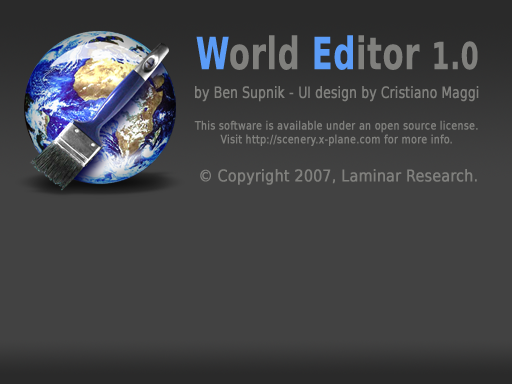
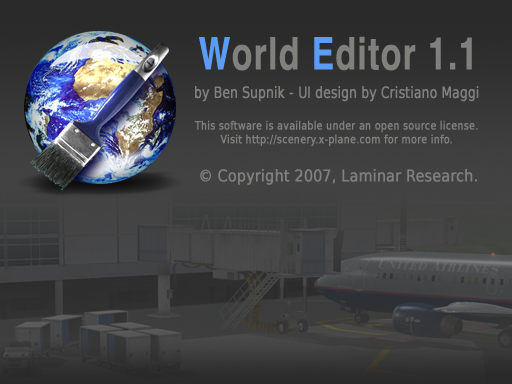
More WED bug fixes: * Split panes can't go off screen * About box updated. * Array bounds checking * Group command won't change tool

diff --git a/src/GUI/GUI_Splitter.cpp b/src/GUI/GUI_Splitter.cpp
@@ -130,15 +130,25 @@ void		GUI_Splitter::MouseDrag(int x, int y, int button)
 		GetNthChild(0)->GetBounds(b1);
 		GetNthChild(1)->GetBounds(b2);
 
+		int ss = GetSplitSize();
+
 		if (mDirection == gui_Split_Horizontal)
 		{
+			int smin = b[0];
+			int smax = b[2] - ss;			
 			b1[2] = x - mSlop;
-			b2[0] = x - mSlop + GetSplitSize();
+			if(b1[2] < smin)	b1[2] = smin;
+			if(b1[2] > smax)	b1[2] = smax;
+			b2[0] = b1[2] + ss;
 			b1[1] = b2[1] = b[1];
 			b1[3] = b2[3] = b[3];
 		} else {
+			int smin = b[1];
+			int smax = b[3] - ss;
 			b1[3] = y - mSlop;
-			b2[1] = y - mSlop + GetSplitSize();
+			if(b1[3] < smin) b1[3] = smin;
+			if(b1[3] > smax) b1[3] = smax;
+			b2[1] = b1[3] + ss;
 			b1[0] = b2[0] = b[0];
 			b1[2] = b2[2] = b[2];
 		}
@@ -182,22 +192,27 @@ void		GUI_Splitter::AlignContents()
 		GetNthChild(0)->GetBounds(b1);
 		GetNthChild(1)->GetBounds(b2);
 
+		int ss = GetSplitSize();
 		int split = mDirection == gui_Split_Horizontal ?
-			(b1[2] + b2[0] + GetSplitSize()) / 2 :
-			(b1[3] + b2[1] + GetSplitSize()) / 2;
+			(b1[2] + b2[0] + ss) / 2 :
+			(b1[3] + b2[1] + ss) / 2;
 
 		if (mDirection == gui_Split_Horizontal)
 		{
+			if(split < b[0]) split = b[0];
+			if(split > b[2]-ss) split = b[2]-ss;
 			b1[0] = b[0];
 			b1[2] = split;
-			b2[0] = split + GetSplitSize();
+			b2[0] = split + ss;
 			b2[2] = b[2];
 			b1[1] = b2[1] = b[1];
 			b1[3] = b2[3] = b[3];
 		} else {
+			if(split < b[1]) split = b[1];
+			if(split > b[3]-ss) split=b[3]-ss;
 			b1[1] = b[1];
 			b1[3] = split;
-			b2[1] = split + GetSplitSize();
+			b2[1] = split + ss;
 			b2[3] = b[3];
 			b1[0] = b2[0] = b[0];
 			b1[2] = b2[2] = b[2];
@@ -217,9 +232,13 @@ void		GUI_Splitter::AlignContentsAt(int split)
 		GetBounds(b);
 		GetNthChild(0)->GetBounds(b1);
 		GetNthChild(1)->GetBounds(b2);
-
+		int ss = GetSplitSize();
+		
 		if (mDirection == gui_Split_Horizontal)
 		{
+			if(split < b[0]) split = b[0];
+			if(split > b[2]-ss) split = b[2]-ss;
+		
 			b1[0] = b[0];
 			b1[2] = split;
 			b2[0] = split + GetSplitSize();
@@ -227,6 +246,9 @@ void		GUI_Splitter::AlignContentsAt(int split)
 			b1[1] = b2[1] = b[1];
 			b1[3] = b2[3] = b[3];
 		} else {
+			if(split < b[1]) split = b[1];
+			if(split > b[3]-ss) split=b[3]-ss;
+		
 			b1[1] = b[1];
 			b1[3] = split;
 			b2[1] = split + GetSplitSize();
@@ -267,4 +289,52 @@ int		GUI_Splitter::GetSplitSize(void)
 	} else {
 		return GUI_GetImageResourceWidth("splitter_v.png") / 2;
 	}
+}
+
+void		GUI_Splitter::SetBounds(int x1, int y1, int x2, int y2)
+{
+	int b[4] = { x1, y1, x2, y2 };
+	this->SetBounds(b);
+}
+
+void		GUI_Splitter::SetBounds(int inBounds[4])
+{
+	GUI_Pane::SetBounds(inBounds);
+
+	if (CountChildren() > 1)
+	{
+		int b[4], b1[4], b2[4];
+		GetBounds(b);
+		GetNthChild(0)->GetBounds(b1);
+		GetNthChild(1)->GetBounds(b2);
+		int ss = GetSplitSize();
+		int split = mDirection == gui_Split_Horizontal ? b1[2] : b1[3];
+
+		
+		if (mDirection == gui_Split_Horizontal)
+		{
+			if(split < b[0]) split = b[0];
+			if(split > b[2]-ss) split = b[2]-ss;
+		
+			b1[0] = b[0];
+			b1[2] = split;
+			b2[0] = split + GetSplitSize();
+			b2[2] = b[2];
+			b1[1] = b2[1] = b[1];
+			b1[3] = b2[3] = b[3];
+		} else {
+			if(split < b[1]) split = b[1];
+			if(split > b[3]-ss) split=b[3]-ss;
+		
+			b1[1] = b[1];
+			b1[3] = split;
+			b2[1] = split + GetSplitSize();
+			b2[3] = b[3];
+			b1[0] = b2[0] = b[0];
+			b1[2] = b2[2] = b[2];
+		}
+		GetNthChild(0)->SetBounds(b1);
+		GetNthChild(1)->SetBounds(b2);
+	}
+	
 }

diff --git a/src/Obj/XDefs.h b/src/Obj/XDefs.h
@@ -83,6 +83,9 @@
 // So...you will end up wasting a lot of time and lose all your data.  DO NOT SET THIS TO 1.  CONSIDER YOURSELF WARNED!  
 #define AIRPORT_ROUTING 0
 
+// Set this to 1 to replace vector with a version that checks bounds.  Usually only used to catch fugly bugs.
+#define SAFE_VECTORS 0
+
 #include "MemUtils.h"
 
 
@@ -96,6 +99,35 @@
 #include <string>
 #include <map>
 #include <set>
+
+#if SAFE_VECTORS && DEV
+
+	// This goo hacks vector to bounds check ALL array accesses...not fast, but a nice way to catch stupid out of bounds conditions.
+	namespace std
+	{
+		template <class T, class Allocator = allocator<T> >
+		class __dev_vector : public vector<T, Allocator>
+		{
+			public:
+				typedef vector<T,Allocator>					base_type;
+				typedef typename base_type::size_type		size_type;
+				typedef typename base_type::reference		reference;
+				typedef typename base_type::const_reference	const_reference;
+
+				explicit __dev_vector(									const Allocator& a = Allocator()) : base_type(		  a	){}
+				explicit __dev_vector(size_type n, const T& value = T(),const Allocator& a = Allocator()) : base_type(n,value,a	){}
+
+				template <class InputIterator>
+					__dev_vector(InputIterator first, InputIterator last,const Allocator& a = Allocator()) : base_type(first,last, a){}
+					__dev_vector(const __dev_vector& x													 ) : base_type(x			){}
+
+				inline 	     reference operator[](size_type n)		 {assert(n>=0 && n<base_type::size()); return base_type::operator[](n);}
+				inline const_reference operator[](size_type n) const {assert(n>=0 && n<base_type::size()); return base_type::operator[](n);}
+		};
+	}
+	#define vector __dev_vector
+	
+#endif
 
 using namespace std;
 

diff --git a/src/WEDWindows/WED_DocumentWindow.cpp b/src/WEDWindows/WED_DocumentWindow.cpp
@@ -117,7 +117,7 @@ WED_DocumentWindow::WED_DocumentWindow(
 	lib->GetAdapter()->SetMap(mMapPane);
 	mMapPane->SetParent(mMainSplitter2);
 	mMapPane->Show();
-	mMapPane->SetSticky(1,1,0.5,1);
+	mMapPane->SetSticky(1,1,1,1);
 
 	GUI_Pane * top_bar = mMapPane->GetTopBar();
 	top_bar->SetParent(packer);
@@ -228,13 +228,10 @@ WED_DocumentWindow::WED_DocumentWindow(
 	int zw[2];
 	XWin::GetBounds(zw,zw+1);
 
-	int main_split = inDocument->ReadIntPref("window/main_split",(zw[0]) * 0.25f);
-	int main_split2 = inDocument->ReadIntPref("window/main_split2",(zw[0]) * 0.5f);
-	int prop_split = inDocument->ReadIntPref("window/prop_split",(zw[1]) * 0.5f);
+	int main_split = inDocument->ReadIntPref("window/main_split",zw[0] / 5);
+	int main_split2 = inDocument->ReadIntPref("window/main_split2",zw[0] * 2 / 3);
+	int prop_split = inDocument->ReadIntPref("window/prop_split",zw[1] / 2);
 
-	if (main_split > (zw[0])) main_split = (zw[0]) * 0.25f;
-	if (main_split2 > (zw[0] - main_split)) main_split2 = (zw[0]) * 0.5f;
-	if (prop_split > (zw[1])) prop_split = (zw[1]) * 0.5f;
 
 	mMainSplitter->AlignContentsAt(main_split);
 	mMainSplitter2->AlignContentsAt(main_split2);
@@ -266,10 +263,14 @@ int	WED_DocumentWindow::HandleCommand(int command)
 		{
 			int zw[2];
 			XWin::GetBounds(zw,zw+1);
-			int main_split = (zw[0]) * 0.5f;
-			int prop_split = (zw[1]) * 0.5f;
+			int main_split = zw[0] / 5;
+			int main_split2 = zw[0] * 2 / 3;
+			int prop_split = zw[1] / 2;
+
 			mMainSplitter->AlignContentsAt(main_split);
+			mMainSplitter2->AlignContentsAt(main_split2);
 			mPropSplitter->AlignContentsAt(prop_split);
+
 		}
 		return 1;
 	case gui_Undo:	if (um->HasUndo()) { um->Undo(); return 1; }	break;

diff --git a/src/WEDWindows/WED_AboutBox.cpp b/src/WEDWindows/WED_AboutBox.cpp
@@ -60,10 +60,10 @@ void		WED_AboutBox::Draw(GUI_GraphState * state)
 
 	char buf[1024];
 
-	sprintf(buf,"WED " WED_VERSION_STRING ", compiled on "__DATE__" "__TIME__);
-	float color[4] = { 1.0, 1.0, 1.0, 1.0 };
-
 	float f = GUI_GetLineHeight(font_UI_Basic);
+	float color[4] = { 1.0, 1.0, 1.0, 0.7 };
+
+	sprintf(buf,"WorldEditor " WED_VERSION_STRING ", compiled on "__DATE__" "__TIME__);
 
 	GUI_FontDrawScaled(state, font_UI_Basic, color,
 		bounds[0],
@@ -71,6 +71,26 @@ void		WED_AboutBox::Draw(GUI_GraphState * state)
 		bounds[2],
 		bounds[0] * 0.75 + bounds[2] * 0.25 + f * 0.5,
 		buf,buf+strlen(buf), align_Center);
+
+	// Don't like how you have been acredited (or NOT acredited)?  FIX IT!  Change the code
+	// here, submit a patch, or file a bug report.
+
+	const char * credits[] = { 
+		"Thanks to Janos Laube and everyone else", 
+		"who has contributed to WorldEditor's development.", 
+		0 };
+	int n = 0;
+	while(credits[n])
+	{
+		GUI_FontDrawScaled(
+			state,font_UI_Basic,color,
+			bounds[0],
+			bounds[0] * 0.75 + 
+			bounds[2] * 0.25 - 2.5 * f - n * f,
+			bounds[2],bounds[0] * 0.75 + bounds[2] * 0.25 - 1.5 * f - n * f,
+			credits[n],credits[n]+strlen(credits[n]),align_Center);
+		++n;
+	}
 
 }
 

diff --git a/src/GUI/GUI_Table.cpp b/src/GUI/GUI_Table.cpp
@@ -541,10 +541,13 @@ void	GUI_Table::GetScrollBounds(float outTotalBounds[4], float outVisibleBounds[
 		return;
 	}
 
+	int rc = mGeometry->GetRowCount();
+	int cc = mGeometry->GetColCount();
+
 	outTotalBounds[0] = b[0] - GetScrollH();
 	outTotalBounds[1] = b[1] - GetScrollV();
-	outTotalBounds[2] = b[0] - GetScrollH() + mGeometry->GetCellRight(mGeometry->GetColCount()-1);
-	outTotalBounds[3] = b[1] - GetScrollV() + mGeometry->GetCellTop(mGeometry->GetRowCount()-1);
+	outTotalBounds[2] = b[0] - GetScrollH() + (cc ? mGeometry->GetCellRight(cc-1) : 0);
+	outTotalBounds[3] = b[1] - GetScrollV() + (rc ? mGeometry->GetCellTop(rc-1) : 0);
 }
 
 void	GUI_Table::ScrollH(float xOffset)

diff --git a/src/WEDMap/WED_MapPane.cpp b/src/WEDMap/WED_MapPane.cpp
@@ -293,9 +293,10 @@ void	WED_MapPane::ZoomShowAll(void)
 int		WED_MapPane::Map_KeyPress(uint32_t inKey, int inVK, GUI_KeyFlags inFlags)
 {
 	if (mMap->HandleKeyPress(inKey, inVK, inFlags)) return 1;
+	if ((inFlags & (gui_ShiftFlag | gui_OptionAltFlag | gui_ControlFlag)) == 0)
 	for (int n = 0; n < sizeof(kToolKeys) / sizeof(kToolKeys[0]); ++n)
 	if (kToolKeys[n])
-	if (kToolKeys[n]==inKey)
+	if (kToolKeys[n]==inKey)	
 	{
 		mToolbar->SetValue(n);
 		return 1;

diff --git a/src/WEDCore/WED_Version.h b/src/WEDCore/WED_Version.h
@@ -24,9 +24,9 @@
 #ifndef WED_Version_H
 #define WED_Version_H
 
-#define	WED_VERSION			 1.1b2
-#define	WED_VERSION_STRING	"1.1b2"
-#define	WED_VERSION_RES		"1.1b2"
-#define	WED_VERSION_BIN		1,1,0,4
+#define	WED_VERSION			 1.1b3
+#define	WED_VERSION_STRING	"1.1b3"
+#define	WED_VERSION_RES		"1.1b3"
+#define	WED_VERSION_BIN		1,1,0,5
 
 #endif /* WED_Version_H */

diff --git a/src/GUI/GUI_Splitter.h b/src/GUI/GUI_Splitter.h
@@ -50,6 +50,9 @@ public:
 	virtual	void		MouseDrag(int x, int y, int button);
 	virtual	void		MouseUp(int x, int y, int button);
 	virtual	int			GetCursor(int x, int y);
+	
+	virtual void		SetBounds(int x1, int y1, int x2, int y2);
+	virtual void		SetBounds(int inBounds[4]);
 
 private:
 
